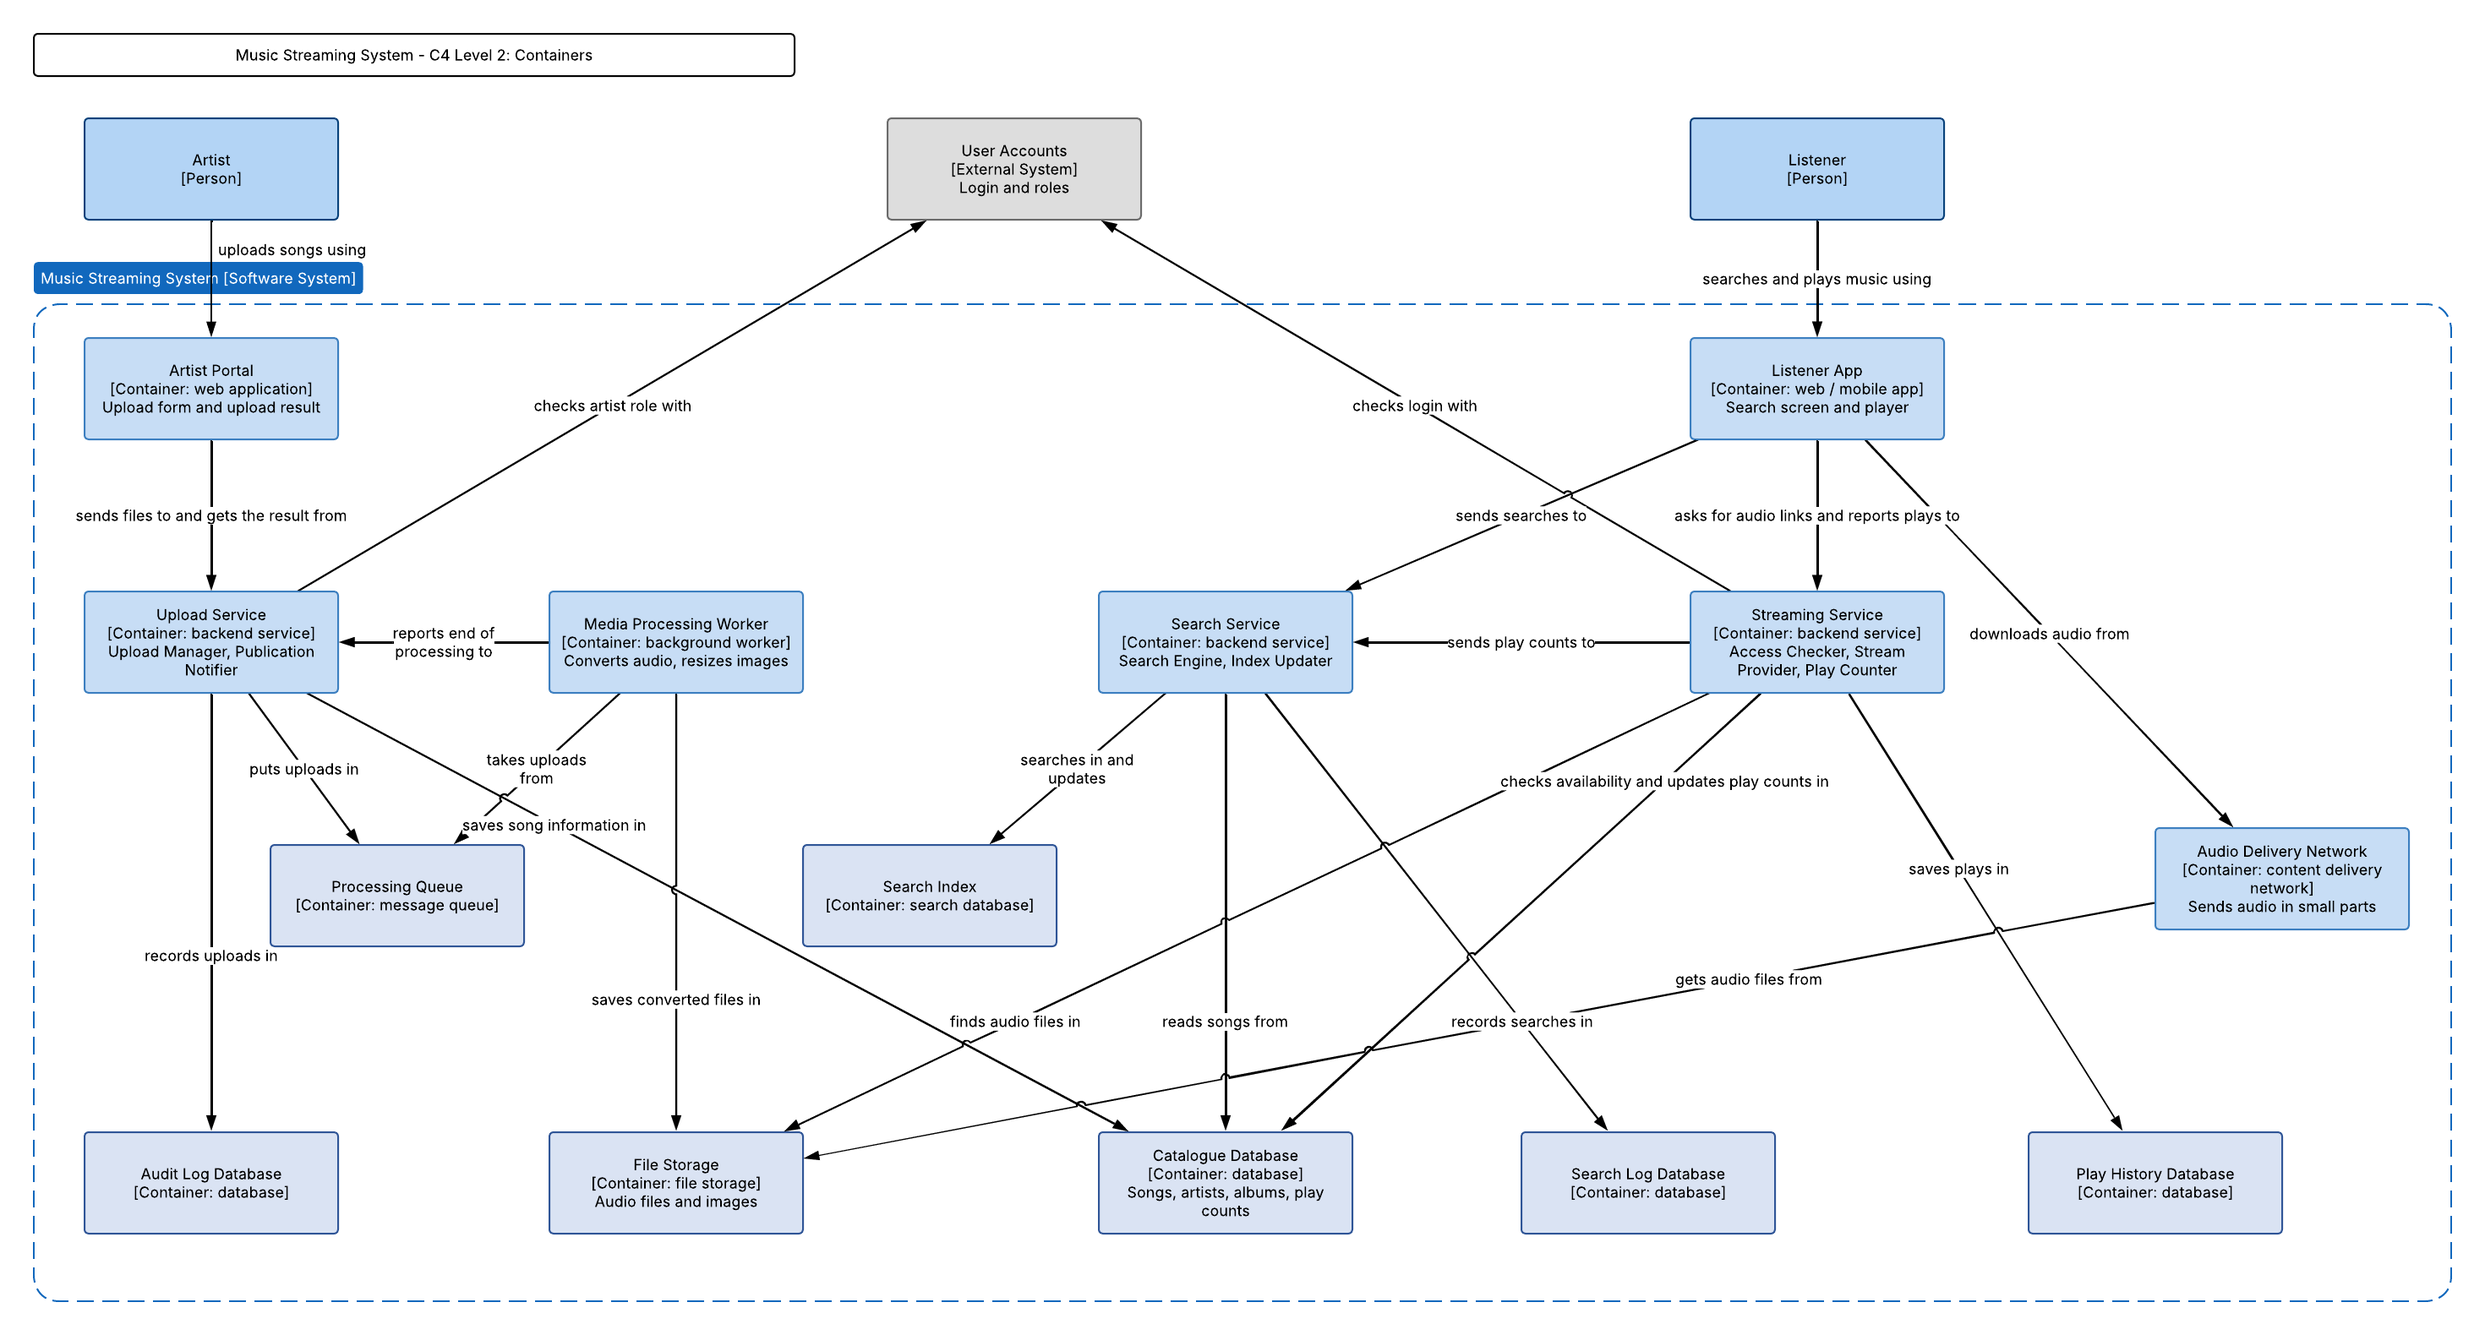
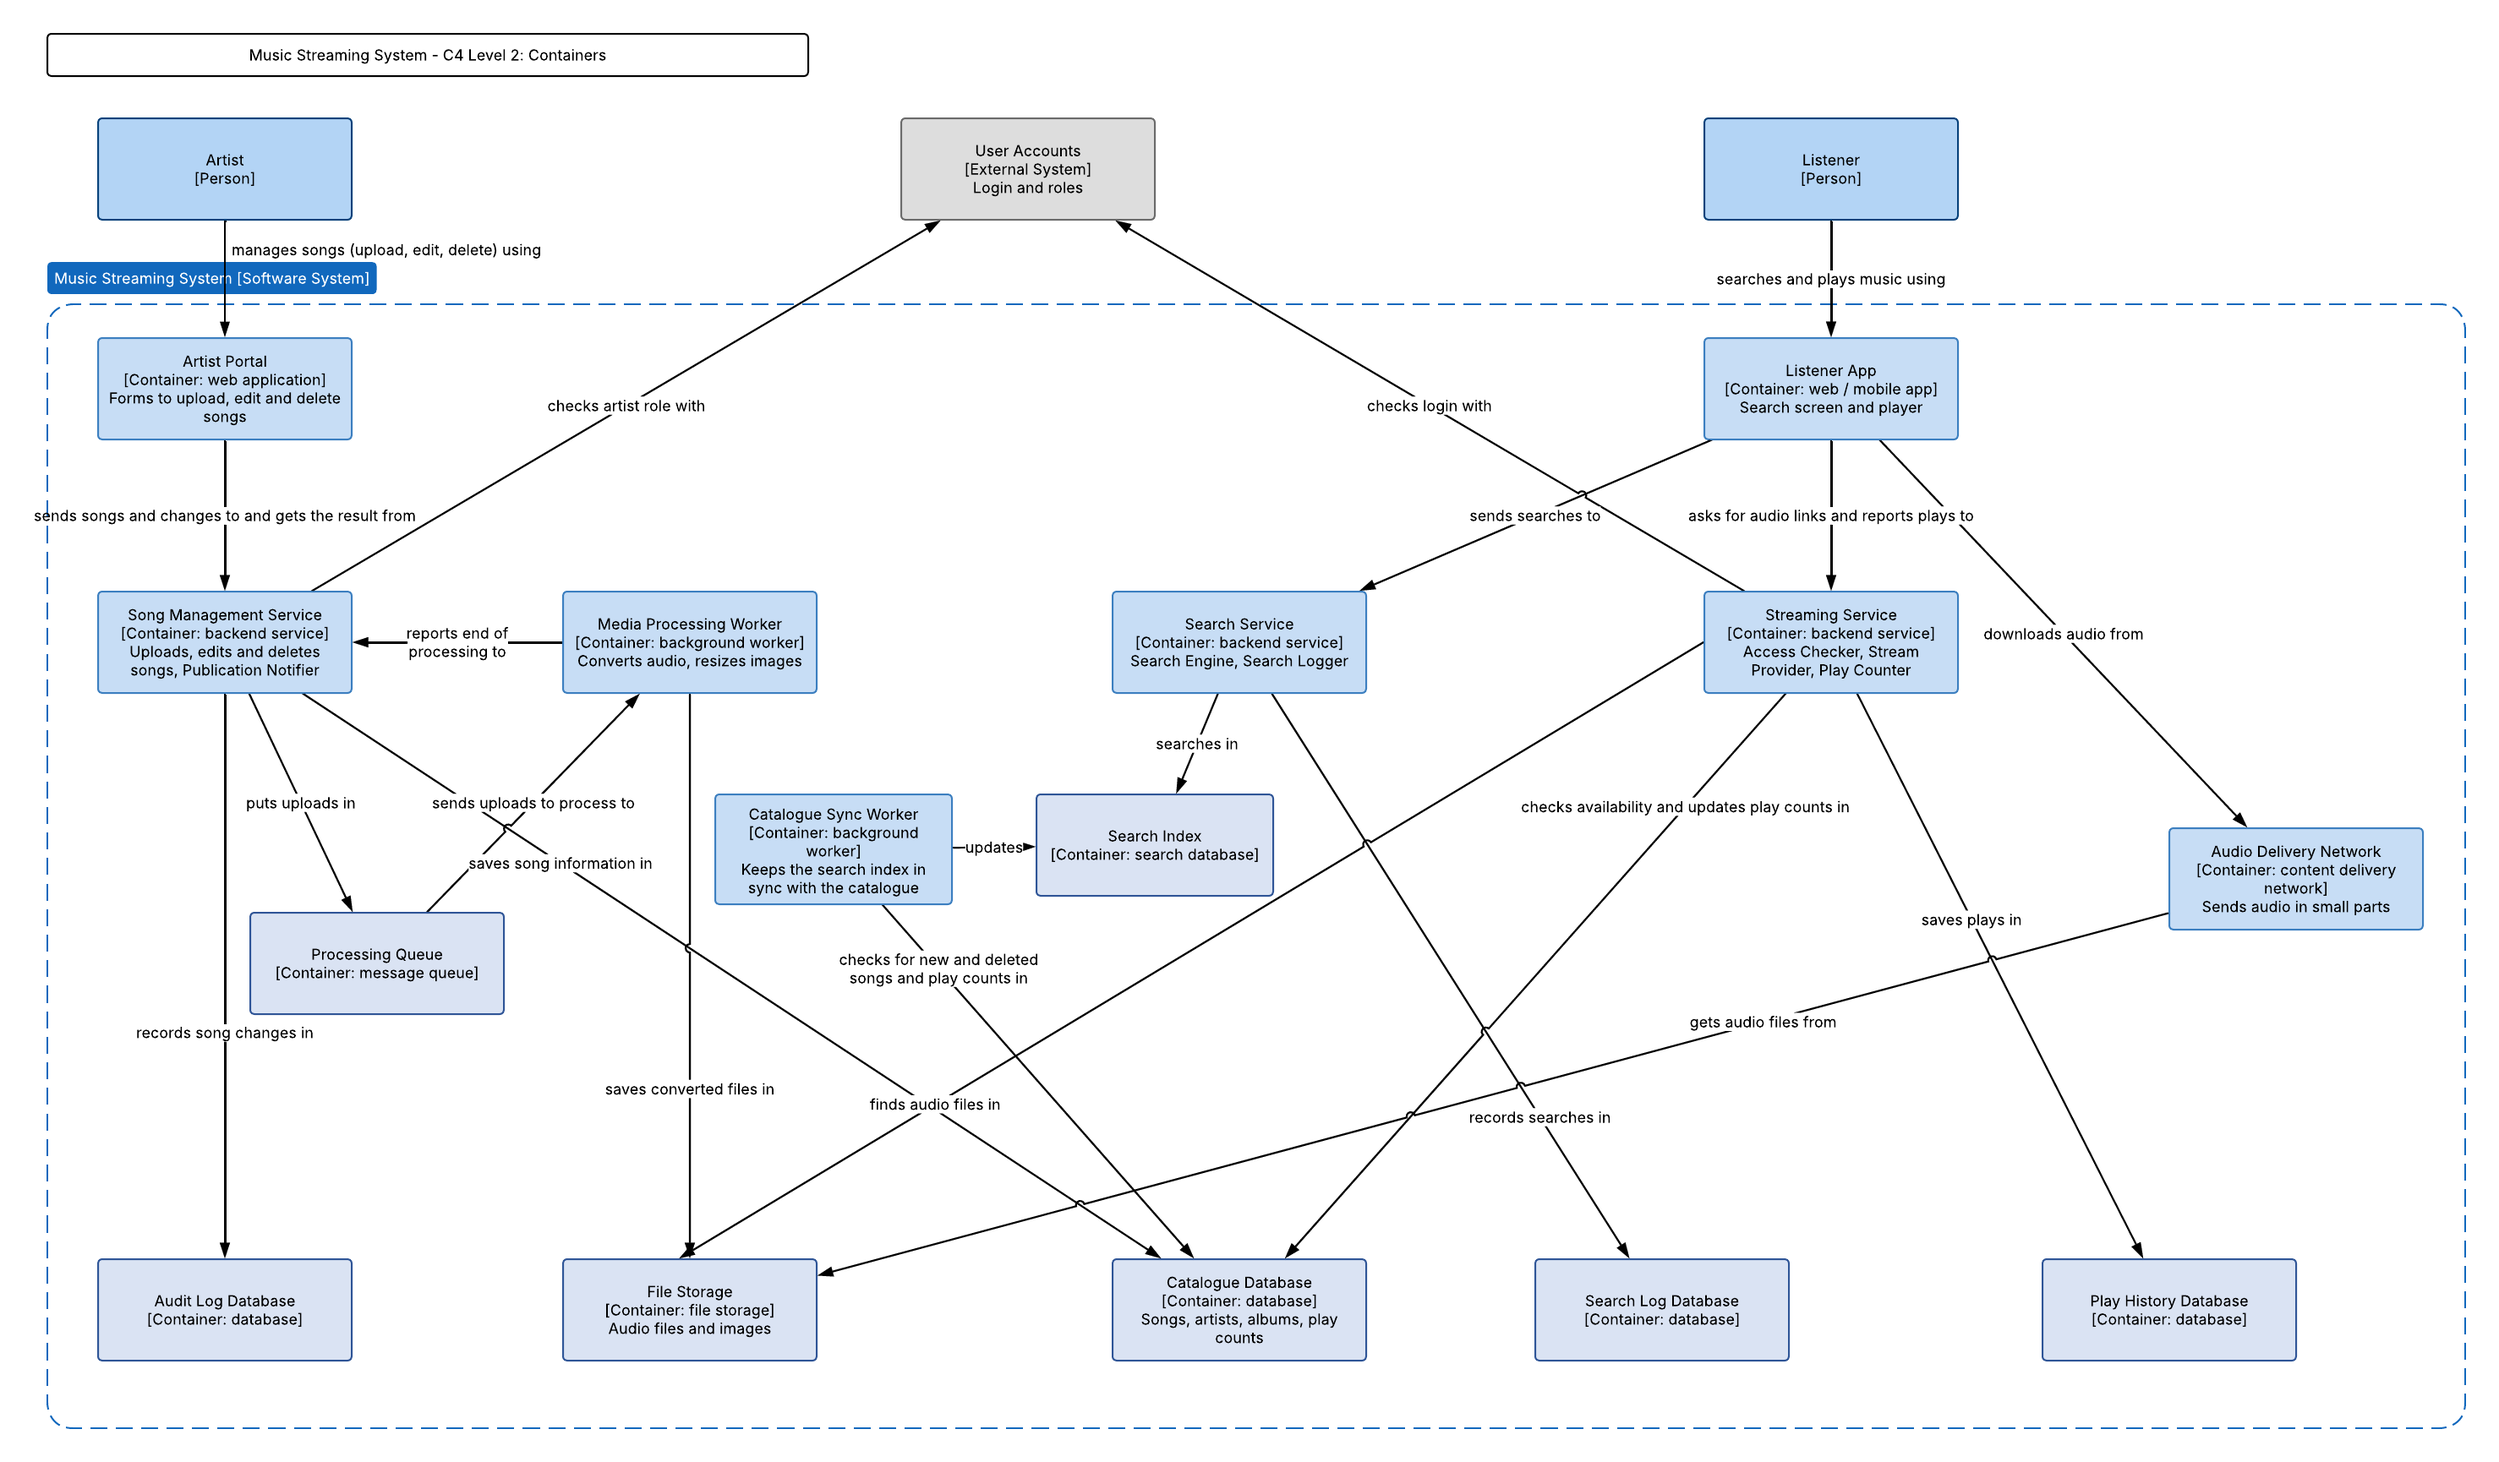
corrections

diff --git a/architecture.md b/architecture.md
@@ -63,17 +63,43 @@ Diagram: [Task 3 - Dependencies (Lucidchart, page 2)](https://lucid.app/lucidcha
 
 ![C4 Level 2 - Containers](data/c4_containers.png)
 
+Changes after the teacher's feedback (19/11):
+
+- The artist uses a **Song Management Service**, not only an upload service: it uploads, edits and deletes songs.
+- The **Processing Queue** sends the uploads to the **Media Processing Worker** (the arrow goes from the queue to the worker).
+- A new **Catalogue Sync Worker** checks the Catalogue Database for new and deleted songs and play counts,
+  and updates the Search Index (see Level 3 below).
+
+Why the Catalogue Sync Worker is a separate container (and not a component of the Search Service):
+
+- It runs in the background on a schedule, while the Search Service answers listener requests.
+- The Search Service runs on many instances to handle the search load. The sync worker must run on **one instance**:
+  if it ran inside every Search Service instance, each song would be added to the index several times.
+- It is the only container that writes to the Search Index; the Search Service only reads from it.
+- If the worker stops, search still works; the index is only a bit late.
+- The Song Management Service and the Streaming Service do not need to know about search: they only write to the Catalogue Database.
+
 ### Which modules are in which container
 
 | Container                                                                                        | Modules                                                     |
 | ------------------------------------------------------------------------------------------------ | ----------------------------------------------------------- |
 | Artist Portal (web application)                                                                  | Artist Portal                                               |
 | Listener App (web / mobile app)                                                                  | Search Screen, Player App                                   |
-| Upload Service (backend service)                                                                 | Upload Manager, Publication Notifier, Audit Logger          |
+| Song Management Service (backend service)                                                        | Upload Manager, Publication Notifier, Audit Logger          |
 | Media Processing Worker (background worker)                                                      | Media Processor                                             |
-| Search Service (backend service)                                                                 | Search Engine, Index Updater, Search Log                    |
+| Search Service (backend service)                                                                 | Search Engine, Search Log                                   |
+| Catalogue Sync Worker (background worker)                                                        | Catalogue Change Detector, Index Updater                    |
 | Streaming Service (backend service)                                                              | Access Checker, Stream Provider, Play Counter, Play History |
 | Processing Queue (message queue)                                                                 | Processing Queue                                            |
 | Search Index (search database)                                                                   | Search Index                                                |
 | Audio Delivery Network (content delivery network)                                                | Audio Delivery Network                                      |
 | Catalogue Database, File Storage, Audit Log Database, Search Log Database, Play History Database | Catalogue Repository, Media Storage and the logs' storage   |
+
+### Level 3: Components of the Catalogue Sync Worker
+
+![C4 Level 3 - Catalogue Sync Worker components](data/c4_components_catalogue_sync.png)
+
+- **Catalogue Change Detector** regularly checks the Catalogue Database for new and deleted songs and new play counts.
+- **Index Updater** adds, removes and updates songs in the Search Index.
+
+Lucid diagrams: [C4 model (Lucidchart, pages 3 to 5)](https://lucid.app/lucidchart/8a13cb37-50fd-452a-9b3b-f8d91db97765/view)
